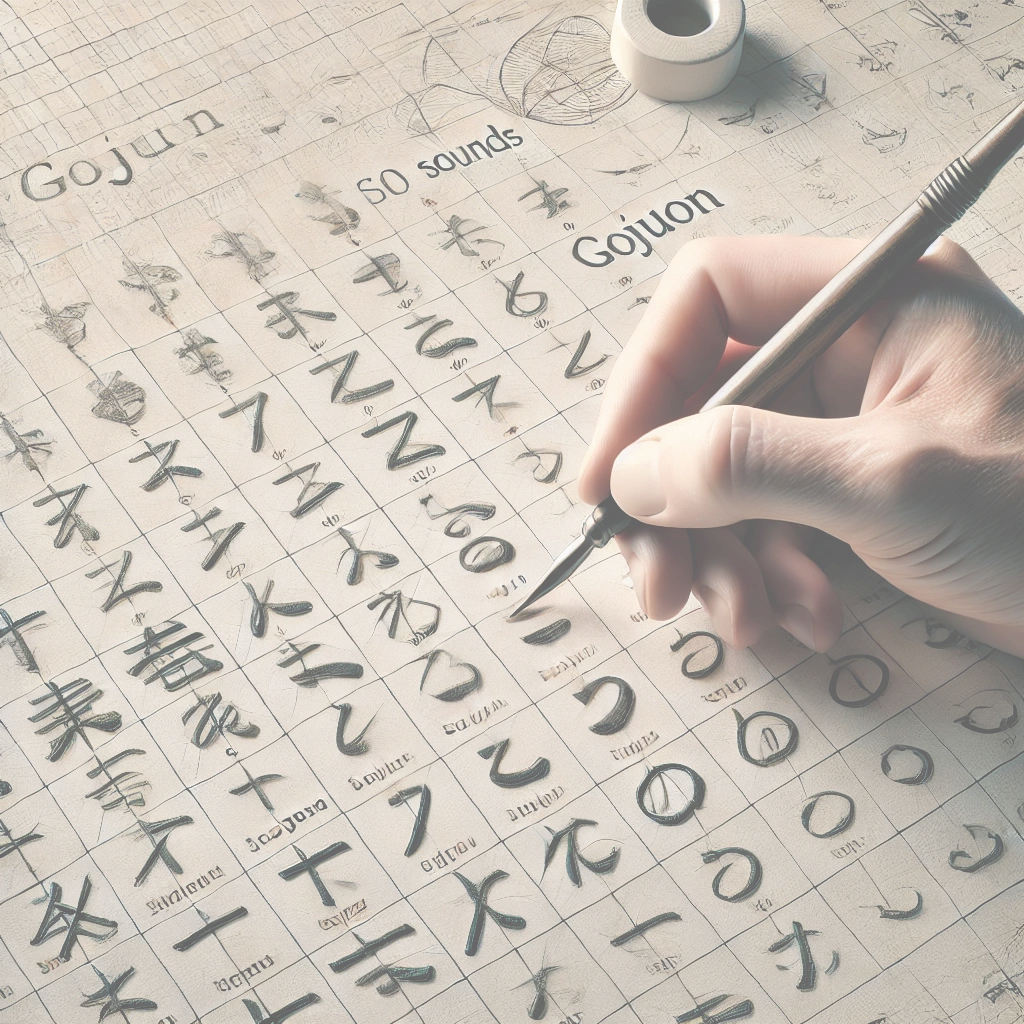
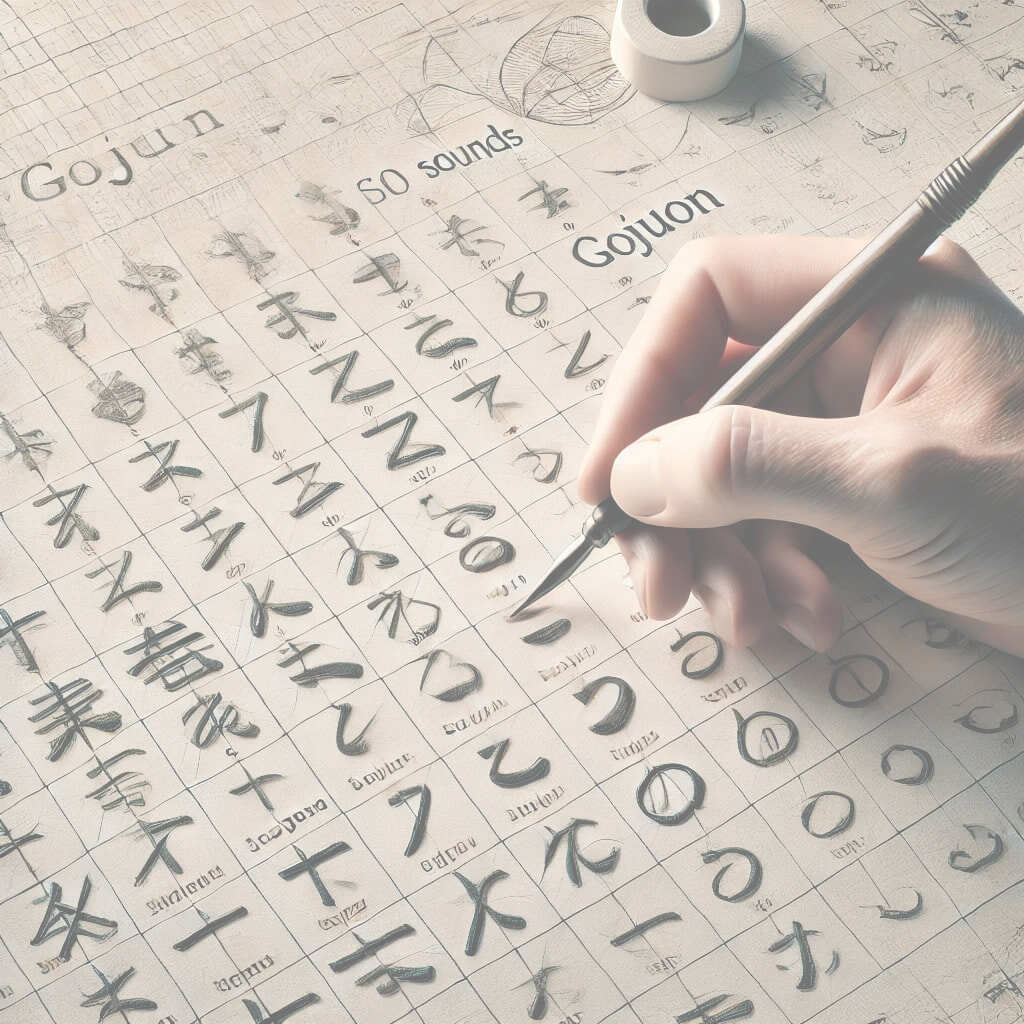
SEO

diff --git a/src/views/WritingPractice.vue b/src/views/WritingPractice.vue
@@ -287,6 +287,29 @@ const handleTabChange = (tabName) => {
 
 onMounted(() => {
   window.addEventListener("keyup", handleKeyEvent);
+
+  document.title = `${t("handwriting_practice")} | ${t("meta.title")}`;
+
+  // document
+  //   .querySelector('meta[name="description"]')
+  //   .setAttribute("content", "");
+
+  // document
+  //   .querySelector('meta[name="keywords"]')
+  //   .setAttribute("content", `${video.artists}, ${video.name}, 歌詞`);
+
+  // document
+  //   .querySelector('meta[property="og:title"]')
+  //   .setAttribute(
+  //     "content",
+  //     `${video.name} - ${video.artists} | ${t("meta.title")}`,
+  //   );
+  // document
+  //   .querySelector('meta[property="og:description"]')
+  //   .setAttribute("content", "");
+  // document
+  //   .querySelector('meta[property="og:url"]')
+  //   .setAttribute("content", window.location.href);
 });
 
 onUnmounted(() => {